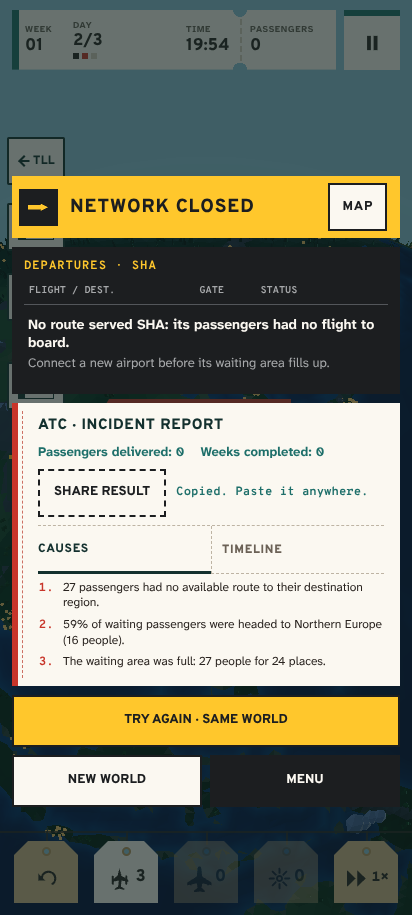
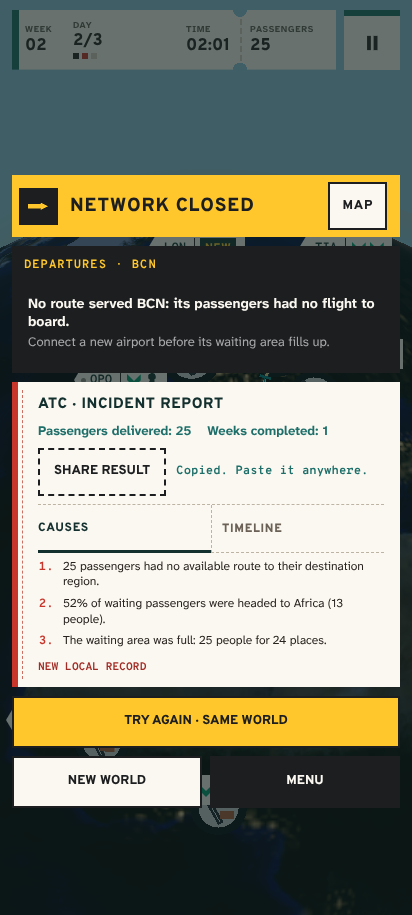
N12aj: fixed-date seeds for daily-share and daily-continue (D-214)
Clock checks in test:e2e-seeds (both date-seeded suites declare a date; pinDate's
init script lands on the right Warsaw day across DST switches), D-214, TESTING
entries, backlog item and log line; daily-share shots refreshed for the fixed day.

Claude-Session: https://claude.ai/code/session_01Xqzfc4e5N2tWm4N2npoph3

diff --git a/scripts/e2e-seeds.ts b/scripts/e2e-seeds.ts
@@ -6,7 +6,9 @@ import { performance } from 'node:perf_hooks';
 //   [night-12aj] Suites seeded by the date list `dates` (Warsaw calendar keys); their seed is dailySeedForKey(date)
 //   and --find walks forward day by day.
 import { E2E_SEEDS } from '../e2e/seeds.mjs';
-import { dailySeedForKey } from '../src/core/daily.ts';
+import { runInNewContext } from 'node:vm';
+import { dailyInstant, pinDate } from '../e2e/browser.mjs';
+import { dailyKey, dailySeedForKey } from '../src/core/daily.ts';
 import { checkPlan, findSeed, IDLE_OFFSETS, playPlan, type E2ePlan } from './lib/e2e-plans.ts';
 
 const started = performance.now();
@@ -49,6 +51,30 @@ if (args.includes('--find')) {
     if (!miss) { passed++; console.log(`PASS ${label}`); continue; }
     failed++;
     console.error(`FAIL ${label}: ${miss.result.why} (idle ${miss.idle}; ${miss.result.trace.join(' | ') || 'no board'}) — npm run e2e:seeds -- ${name}`);
+  }
+  // [night-12aj] D-214: the date-seeded suites declare their day, and the browser clock pin really moves the page's
+  // calendar there (the init script pinDate hands to Playwright, run in a bare context) while time keeps running.
+  const clock = (name: string, ok: boolean, why: string) => {
+    if (ok) { passed++; console.log(`PASS ${name}`); } else { failed++; console.error(`FAIL ${name}: ${why}`); }
+  };
+  for (const name of ['daily-share', 'daily-continue']) {
+    const dates = suites[name]?.dates ?? [];
+    clock(`${name}: fixed date`, dates.length > 0 && dates.every((date) => /^\d{4}-\d{2}-\d{2}$/.test(date)),
+      `no dates in e2e/seeds.mjs (${JSON.stringify(dates)})`);
+  }
+  for (const date of ['2026-11-04', '2027-03-28', '2027-10-31', '2026-12-31']) {
+    const page = { script: null as null | ((target: number) => void), arg: 0,
+      addInitScript(fn: (target: number) => void, arg: number) { this.script = fn; this.arg = arg; return Promise.resolve(); } };
+    await pinDate(page, dailyInstant(date));
+    const context: { Date: DateConstructor; globalThis?: unknown } = { Date };
+    context.globalThis = context;
+    runInNewContext(`(${page.script!.toString()})(${page.arg})`, context);
+    const Pinned = context.Date;
+    const first = Pinned.now();
+    const key = dailyKey(new Pinned());
+    const later = new Pinned(Pinned.now() + 1000).getTime() - first;
+    clock(`pinDate ${date}: page daily key`, key === date && Math.abs(first - dailyInstant(date).getTime()) < 5000 &&
+      new Pinned(0).getTime() === 0 && later >= 1000, `key ${key}, now ${new Date(first).toISOString()}`);
   }
   console.log(`SUMMARY test:e2e-seeds suites=${Object.keys(suites).length} cases=${passed + failed} offsets=${IDLE_OFFSETS.length} passed=${passed} failed=${failed} durationMs=${Math.round(performance.now() - started)}`);
   if (failed) process.exitCode = 1;

diff --git a/docs/TESTING.md b/docs/TESTING.md
@@ -117,7 +117,7 @@ Times are measured in the integration container (8 vCPU, SwiftShader); “ci” 
 | `npm run test:hud-targets` | ci | 40 s | Playwright HUD: 7 controls ≥ 48 dp ([N11w] pause + six dock tags; the G8 globe-view tag ≥ 48 dp, in line with the dock between hub and speed, also after rotation, tap → ToggleGlobeMode), safe-area clearance, no overlap/overflow, rotation, drag-to-route; 4 PNGs in `docs/shots/13/`. [task-35] Weekly upgrade board PL/EN × 4 sizes (+ "+2 slots" variant): labels ≥ 48 dp inside the viewport, no overlap or clipped text, model window size, 3 rendered models, stamp only on the hub label, sim numbers, tap → ChooseUpgrade, hub-pick mode, no-hub state; [task-39] Back tile in the pick sign ≥ 48 dp, i18n text, tap → CancelUpgradePick; 16 PNGs in `docs/shots/35/`. [task-37] Text: menu, upgrade labels and game over, PL/EN at 360×800, 412×915, 673×841, 904×1000, 915×412, 800×360: no word breaks between two letters without a hyphen/soft hyphen (per-character range line boxes), upgrade titles fit, departures-board headers ≥ 8 px apart, " · " symmetric with a real advance; 8 PNGs in `docs/shots/37/` (plus 8 committed `before-*` from dev); `--text-only` runs just this part | `… passed=N failed=0 shots=28` |
 | `npm run test:e2e:tutorial` | ci | 35 s | Onboarding: three training actions in the game's own marks (airport discs, hub ring, code plates, crescent glyph tag, D-129), "STEP n / 3", the dawn sentence on the last step, planet inside 412 px, replay/skip/persistence, the 8-row glyph legend in settings → help; 8 PNGs in `docs/shots/23/` | `… passed=28 failed=0 screenshots=8` |
 | `npm run test:e2e:smoke` | ci | 15–40 s | Real gameplay journey, 9 dependent steps (menu → seeded start → route drag → aircraft drag → week → upgrade → save/continue hash → overload → menu). Each step prints PASS/FAIL/SKIP; failure screenshot in `.e2e/` | `SUMMARY test:e2e:smoke … mode=game steps=9 passed=9 failed=0 skipped=0` |
-| `npm run test:e2e:daily-continue` | ci | 10–30 s | [night-07c] Real-UI journey for Continue of a saved daily (N7a, D-72), 7 dependent steps: official daily from the menu → route/aircraft drag → save/menu/continue keeps seed, hash and the open official attempt → game over records the official score, menu shows PLANOWO → second daily is practice and stays practice after continue → its game over leaves the official result unchanged. Checks `aw-daily-active-v1` / `aw-daily-scores-v1`; fails without the N7a resume | `SUMMARY test:e2e:daily-continue seed=0xA1A1 steps=7 passed=7 failed=0 skipped=0` |
+| `npm run test:e2e:daily-continue` | ci | 10–30 s | [night-07c] Real-UI journey for Continue of a saved daily (N7a, D-72), 7 dependent steps: official daily from the menu → route/aircraft drag → save/menu/continue keeps seed, hash and the open official attempt → game over records the official score, menu shows PLANOWO → second daily is practice and stays practice after continue → its game over leaves the official result unchanged. Checks `aw-daily-active-v1` / `aw-daily-scores-v1`; fails without the N7a resume. [night-12aj] D-214: the clock is pinned to `E2E_SEEDS['daily-continue'].dates[0]` and the official run must be of that day | `SUMMARY test:e2e:daily-continue seed=0xA1A1 date=2026-11-04 steps=7 passed=7 failed=0 skipped=0` |
 | `npm run test:e2e:upgrade-picks` | ci | 15–60 s | [night-07q] Real-UI journey for the targeted weekly upgrades at 412×915 and 915×412 (two fresh runs each): "+2 slots" opens the airport pick, Back returns to the three crates with nothing taken, a real tap on the globe completes it; then the hub expansion is completed by a tap on a hub. The DEV gesture `window.aw.gesture('pick')` gives a visible target clear of the sign; `window.aw.state().upgrades` lists taken upgrades with the picked airport. Fails when the globe tap no longer completes the pick | `SUMMARY test:e2e:upgrade-picks seed=0xA3AA steps=10 passed=10 failed=0 skipped=0` |
 | `npm run test:e2e:screens-fit` | ci | ~45 s | [night-07s] Settings, puzzle board and pause sheet × PL/EN × 360×640, 412×915, 915×412 (18 checks): every visible button/select is a ≥ 48 px target inside the viewport, no button text is clipped, each select is wide enough for its longest option (canvas-measured), no horizontal page scroll. Fails on the pre-N7s settings grid at 360 dp | `SUMMARY test:e2e:screens-fit seed=0xA1A1 checks=18 passed=18 failed=0` |
 | `npm run test:e2e:screens-fit-320` | ci | ~30 s | [night-07v] The screens-fit audit at 320×568 and 568×320 × PL/EN (12 checks) on settings, puzzle board and pause sheet, with each select keeping ≥ 8 px to spare beside its longest option. Fails 10/12 on the pre-N7v settings grid (132 px selects at 320 dp). [ext-02] The puzzle board shows one departure per `NN.json` (40), is scrolled to the last one, and a pack header never overflows; [ext-05] no puzzle title on the board splits a word across lines (each word's text `Range` stays on one line box) — 10/12 on the old titles (12 PL, 10 EN titles split, e.g. 29 „ATLANTYK-U”) | `SUMMARY test:e2e:screens-fit-320 seed=0xA1A1 checks=12 passed=12 failed=0` |
@@ -131,7 +131,7 @@ Times are measured in the integration container (8 vCPU, SwiftShader); “ci” 
 | `npm run test:e2e:new-airport` | ci | ~10 s | [night-10a] EN and PL 412×915, seed 4242: the opening airports carry no mark, the airport opened mid-run gets the ink NEW/NOWE stub (text + aria-label), the mark is gone 12 game hours later; shots `docs/shots/n10a/` | `SUMMARY test:e2e:new-airport seed=4242 steps=4 passed=4 failed=0` |
 | `npm run test:e2e:save-notice` | ci | ~15 s | [night-10c] 412×915: a damaged save (PL) and a save from a newer version (EN) written into IndexedDB show their menu notice after a reload, no Continue row is offered, and the notice is gone after a new flight; [night-11j] the frozen rules-v4 save (PL) says "older rules version", not "damaged" (4/6 on the old code); shots `docs/shots/n10c/` | `SUMMARY test:e2e:save-notice seed=0xA1A1 steps=6 passed=6 failed=0` |
 | `npm run test:e2e:daily-row` | ci | ~15 s | [night-10d] PL/EN 412×915 with seeded local stores: the endless record 2 500 reads as a plural (no `{count|…}` token), the daily row shows today's score + streak, or the streak to keep when today is not played; shots `docs/shots/n10d/` | `SUMMARY test:e2e:daily-row seed=0xA1A1 steps=4 passed=4 failed=0` |
-| `npm run test:e2e:daily-share` | ci | ~20 s | [night-10e] Real daily at 412×915: "Share result" copies the text (EN; ticket of served regions, "STREAK 2 DAYS" after a seeded yesterday), shows it to select when share and clipboard are missing (PL); "Same world" starts a practice of the same seed, "New world" starts Endless; shots `docs/shots/n10e/` | `SUMMARY test:e2e:daily-share seed=0xA1A1 steps=4 passed=4 failed=0` |
+| `npm run test:e2e:daily-share` | ci | ~20 s | [night-10e] Real daily at 412×915: "Share result" copies the text (EN; ticket of served regions, "STREAK 2 DAYS" after a seeded yesterday), shows it to select when share and clipboard are missing (PL); "Same world" starts a practice of the same seed, "New world" starts Endless; shots `docs/shots/n10e/`. [night-12aj] D-214: the clock is pinned to `E2E_SEEDS['daily-share'].dates[0]` and the seeded yesterday is the day before | `SUMMARY test:e2e:daily-share seed=0xA1A1 date=2026-11-04 steps=4 passed=4 failed=0` |
 | `npm run test:e2e:curfew-barrier` | ci | ~10 s | [night-10g] Bot plays Endless seed 0xA1A1 to the week-3 board, then one decision per game hour until the curfew closes airports (week 4): the renderer draws exactly as many barrier rings as the sim closes (`aw.state().curfewDrawn`), and none after the night (EN 412×915, PL 915×412); [N10h] every closed airport's luggage tag has the barrier stub and a label naming the curfew, its edge chip the striped bar, at least one sign on screen, all gone after the night; fails 0/2 without the session sync; shots `docs/shots/n10g/` | `SUMMARY test:e2e:curfew-barrier seed=0xA1A1 steps=2 passed=2 failed=0` |
 | `npm run test:e2e:transfer-glyphs` | ci | ~15 s | [night-10i] Bot plays Endless seed 0xA1A1 to week 2, then the game steps one minute at a time until a visible luggage tag shows hollow transfer glyphs: every such tag has the `--connecting` class and the label "Making a connection" / "W trakcie przesiadki", and the hollow glyphs fill in within 50 minutes (EN 412×915, PL 915×412); shots `docs/shots/n10i/` | `SUMMARY test:e2e:transfer-glyphs seed=0xA1A1 steps=2 passed=2 failed=0` |
 | `npm run test:e2e:pause-summary` | ci | ~15 s | [night-10j] Bot plays Endless seed 0xA1A1 to the week-1 board, one pick puts it into week 2 ([night-11j]: rules v5 end the run before the week-2 board, 0/4 with `autoplay(2)`), Escape opens the pause sheet: three summary rows with real numbers in the player's language, sheet inside the viewport and clear of the boarding pass, text not clipped, three ≥ 48 px buttons (EN 412×915, PL 915×412, PL 360×640, EN 320×568; failed 2/4 before Save and Menu shared a row); shots `docs/shots/n10j/` | `SUMMARY test:e2e:pause-summary seed=0xA1A1 steps=4 passed=4 failed=0` |
@@ -167,7 +167,7 @@ Times are measured in the integration container (8 vCPU, SwiftShader); “ci” 
 | `npm run ui:matrix` | ci | 30–90 s | Real menu/game/upgrade/gameover × PL/EN × 412×915, 915×412, 673×841, 904×1000, [N12u] unfolded foldable 904×1088@2 and 1088×904@2 → `docs/shots/matrix/` (48 shots); runs on the ordinary seed 0xA1A1; autoplay reaches the week-1 board on it (task 31) | `… weekSeed=41377 mode=game captured=32 expected=32 failed=0` |
 | `npm run test:e2e:fixture` | — | 6 s | Harness self-test against `e2e/fixtures/airway.html` (smoke + matrix); output to ignored `docs/shots/matrix-fixture/`. Does **not** test the game | `… mode=fixture … failed=0` (both) |
 | `npm run test:balance` | fast | ~4 s | Real engine: the same 50 seeded bot games as `balance:report`, deterministic replay, 0 invalid commands, 10–18 min median (D-79), ≥ 60 % reach the 1st weekly upgrade and ≥ 30 % the 2nd (task 31), hub-overflow warning; [night-12f] D-95: 0 runs lost in week 1 at an airport that opened beyond turboprop reach (rules v4: 5 of 50); [night-12ab] R8d D-196: the report's "Spread and mechanic use" section is consistent (p10 ≤ p25 ≤ median ≤ p75 ≤ p90, median = gate median, loss weeks + still flying = runs, hub + spoke + unserved = losses, picks = accepted `ChooseUpgrade`, picked ≤ offered, delivered = score, transfer/curfew/slot counts in range; the real adapter must report `RunMechanics`) — shape only, no gate on the values | `SUMMARY test:balance … mode=game seeds=50 median_min=17.25 upgrade1=1.00 upgrade2=0.66 week1_unreachable=0 spread=ok passed=1 failed=0` |
-| `npm run test:e2e-seeds` | fast | ~24 s | [night-12aa] D-189: the bot plans of the browser suites that need a given weekly board (`e2e/seeds.mjs`: board-short, run-timeline, edge-chip-airports, edge-chip-tags, upgrade-picks; [night-12ac] D-200: also airport-plates, continue-framing, curfew-barrier, edge-chip-fill, edge-dock, first-time-cards, focus-pause, gameover-map, gameover-short, gameover-tip, gameover-unserved (+ its served seed), logbook, new-airport, pause-summary, pick-sign, pseudo-locale, transfer-glyphs, undo-after-upgrade — play-outs, served/unserved jams, hourly bot play, curfew and transfer waits, first-time triggers; [night-12ag] D-208: smoke and leaderboard — the route drag and the dock-tag drag as AddRoute + AssignPlane, checked for every start-airport pair within turboprop range, since the on-screen pair depends on the camera) replayed headless on the current rules (`scripts/lib/e2e-plans.ts`, the same EndlessRun, bot, card click and forced overload as `window.aw`), each on 7 idle offsets (0–60 ticks between calls, as the browser clock runs on). Fails 5/7 on the pre-N12aa seeds (passes 2/7). After a rule change: `npm run e2e:seeds -- <suite>` prints the next seed that holds | `SUMMARY test:e2e-seeds suites=26 cases=32 offsets=7 passed=32 failed=0` (daily-share and daily-continue have no fixed seed: the date seeds them) |
+| `npm run test:e2e-seeds` | fast | ~22 s | [night-12aa] D-189: the bot plans of the browser suites that need a given weekly board (`e2e/seeds.mjs`: board-short, run-timeline, edge-chip-airports, edge-chip-tags, upgrade-picks; [night-12ac] D-200: also airport-plates, continue-framing, curfew-barrier, edge-chip-fill, edge-dock, first-time-cards, focus-pause, gameover-map, gameover-short, gameover-tip, gameover-unserved (+ its served seed), logbook, new-airport, pause-summary, pick-sign, pseudo-locale, transfer-glyphs, undo-after-upgrade — play-outs, served/unserved jams, hourly bot play, curfew and transfer waits, first-time triggers; [night-12ag] D-208: smoke and leaderboard — the route drag and the dock-tag drag as AddRoute + AssignPlane, checked for every start-airport pair within turboprop range, since the on-screen pair depends on the camera; [night-12aj] D-214: daily-share and daily-continue — the browser clock is pinned to `dates[0]` (2026-11-04, `e2e/browser.mjs` `pinDate`) and their plans replay in daily mode on `dailySeedForKey(date)`, plus 6 clock checks: both suites declare a date, and `pinDate`'s init script moves `new Date()`/`Date.now()` to that Warsaw day while time runs on, for 4 dates incl. both DST switches; the clock checks fail on the pre-N12aj seeds/browser helpers) replayed headless on the current rules (`scripts/lib/e2e-plans.ts`, the same EndlessRun, bot, card click and forced overload as `window.aw`), each on 7 idle offsets (0–60 ticks between calls, as the browser clock runs on). Fails 5/7 on the pre-N12aa seeds (passes 2/7). After a rule change: `npm run e2e:seeds -- <suite>` prints the next seed that holds | `SUMMARY test:e2e-seeds suites=28 cases=41 offsets=7 passed=41 failed=0` |
 | `npm run test:doc-ids` | fast | <1 s | [night-12ae] D-205: `docs/DECISIONS.md` — every `## D-NN` heading once and in ascending order; `docs/OWNER-QUESTIONS.md` — every `Q-NN` table row once (✅ markers allowed); self-check on synthetic text. Fails when two agents take the same number. | `SUMMARY test:doc-ids seed=0 cases=8 passed=8 failed=0 decisions=… maxD=… questions=… maxQ=…` |
 | `npm run test:safe-area` | fast | <1 s | [night-11y] R5j, D-206: every `env(safe-area-inset-*)` in `src/**/*.css` is one of the four `--aw-safe-*` token definitions in `src/ui/base.css` (each defined once); any raw use fails, because no browser suite can see it. Fails on the pre-R5j CSS (56 raw uses) | `SUMMARY test:safe-area files=14 raw=0 tokenUses=76 passed=6 failed=0` |
 | `npm run test:bot-policy` | fast | ~3 s | [night-12z] R8e: with an empty reserve and no route end in reach it frees an idle plane from the quietest two-plane route (type that reaches), every route keeps one, busy planes stay, a spare plane is used instead, an unserved jam is connected first; [night-07w] Balance bot policy: with no spare aircraft it extends the nearest served route to an unserved city (range- and length-limited), a spare aircraft still opens a new route, and on the real Sim seed 0xA1A1 reaches the week-3 board both after "+2 slots" and after a turboprop in week 1, with 0 refused commands ([night-12f] rules v5: seed 0xA1A5, "+2 slots" reaches the week-2 board and at least as many boards as a turboprop). Fails 3/6 on the pre-N7w bot. [night-12a] Reach: a board answered with a widebody when the fleet has none or an airport lies beyond turboprop range of all others, two unserved airports beyond the network paired by a new route, and over 20 real seeds at most 4 game overs at an airport no route served (old bot: 14 of 18; [night-12f] at most 6 with 6 airports a week, D-106, measured 6 of 19). Fails 4/10 on the pre-N12a bot | `SUMMARY test:bot-policy seed=0xA1A1 passed=13 failed=0` |

diff --git a/docs/NIGHT-BACKLOG.md b/docs/NIGHT-BACKLOG.md
@@ -769,6 +769,11 @@ before/after `npm run shots -- globe` PNGs and look at them.
       forms, "Nova York", pt-BR over pt-PT spellings, "Naher Osten"); ASSETS entry; `test:city-data` +4 checks. PL/EN
       names and `namePl`/`nameEn` untouched; the game does not read the file until a language ships. Q-80 → A (card
       unchanged, playtest checks the departure limit), Q-79 → A (titles stay), PL store text "terminal" → "hub".
+- [x] N12aj **Fixed-date seeds for daily-share and daily-continue (D-214)** — the last two browser suites without a
+      replayed seed: `pinDate` starts the page calendar on `E2E_SEEDS[suite].dates[0]` (2026-11-04, Warsaw noon, time
+      keeps running), daily plans replay headless in daily mode on `dailySeedForKey(date)`, `e2e:seeds -- <suite>` finds
+      the next date that holds; `test:e2e-seeds` 32 → 41 cases (3 plans + 6 clock checks; the clock checks fail on the
+      old seeds and browser helpers).
 - [x] G1 **Production globe assets** — reproducible bake into `public/data/globe/` (day 4096/2048, night 2048/1024,
       elevation 2048, clouds 2048, ~1.9 MB) with a SHA-256 manifest; NASA/NOAA entries in `docs/ASSETS.md`; credit
       line (PL/EN i18n) on the About page; bundle `total` budget → 4 300 kB (D-171); new fast test `test:globe-assets`.
@@ -1414,3 +1419,4 @@ Evidence: `docs/RESEARCH.md` "R6 — …".
 - 2026-11-04 · N12ah translator export/import (R7i, D-211, D-212) · night/12ah-i18n-export · test:i18n-exchange 12/12 (new module; absent before), export de/fr 449 rows (de one|other, fr one|other|many), JSON + CSV round-trip, import rejects bad params/plurals/budget/stale EN; test:i18n 1/1, test:doc-ids 8/8 (173 decisions, max D-212), test:fast 81/81 (236.9 s), build ok on origin/dev 87a146c; no browser suite (no UI change)
 - 2026-11-04 · N11ac length budgets + harsh pseudo-locale at 320 px (R7h, D-213) · night/11ac-i18n-length-budgets · origin/dev 794e9a7 merged first (#197 i18n export reads the budgets): test:i18n budgets=63 passed (228 failures with the old pseudo-locale; crashes without limits.ts), test:e2e:pseudo-320 16/16 in 35 s (6/16 on the old code), test:e2e:pseudo-locale 27/27 (26/27 before the NEW-stub min-width), test:i18n-exchange 12/12 (11/12 before its stand-in fix), test:fast 81/81 (356.7 s), build ok, test:overlay-layout 36/36 after the stub change; shots .e2e/pseudo-320/ (16, inspected, not committed)
 - 2026-11-04 · N12ai wave-1 city/region names from Wikidata (R7j, D-217) + owner Q-80 → A (D-215), Q-79 → A + PL store "hub" (D-216) · night/12ai-city-names · 165/165 cities resolved (enwiki article, all within 40 km), 173 items × de/fr/es/pt-br/pt/mul labels, 165 cities + 8 regions × 4 languages, 19 reviewed overrides, offline rebuild identical; test:city-data 9/9 (4 new; the module and data file are absent on the old code), test:doc-ids 8/8 (177 decisions, max D-217), test:fast 81/81, build ok after merging origin/dev 9dbfc27; no browser suite (no UI change)
+- 2026-11-04 · N12aj fixed-date seeds for daily-share and daily-continue (D-214) · night/12aj-daily-date-seed · origin/dev 37a8f1c merged first: test:e2e-seeds 41/41 (was 32; +3 daily plans, +6 clock checks — 36/38 with the old e2e/seeds.mjs, the old e2e/browser.mjs has no pinDate), test:e2e:daily-share 4/4 (date=2026-11-04; shots docs/shots/n10e/gameover-share-* refreshed for the fixed day, inspected), test:e2e:daily-continue 7/7, test:doc-ids 8/8 (178 decisions, max D-217), test:fast 81/81 (193.2 s), build ok

diff --git a/docs/DECISIONS.md b/docs/DECISIONS.md
@@ -1707,6 +1707,19 @@ the puzzle sign, game-over buttons and crate values; the game-over title wraps s
 puzzle Back tile no longer shrinks; the airport NEW stub's estimated width is a floor (min-width), not a cap. Real PL/EN text renders as before (row heights unchanged at 320/360/568).
 **Status: in force.**
 
+## D-214 — Daily e2e suites run on a fixed date, replayed headless by test:e2e-seeds (2026-11-04, Claude, night N12aj)
+The two browser suites seeded by the date (`test:e2e:daily-share`, `test:e2e:daily-continue`) played whatever daily
+world the real calendar gave, so a rule change or simply the next day could break them and no headless check saw it
+(D-189/D-200/D-208 cover only the fixed-seed suites). Their day is now `dates: ['2026-11-04']` in `e2e/seeds.mjs`: the
+page clock starts at Warsaw noon of that day (`e2e/browser.mjs` `pinDate`, an init script that shifts `Date`/`Date.now`
+by a fixed offset and lets time run; Playwright's `clock.setFixedTime` froze `Date` and stalled the game screens under
+SwiftShader), daily-share seeds the day before as "yesterday" for the streak, and daily-continue asserts the official
+run is of that day. `test:e2e-seeds` replays their plans in daily mode (`mode: 'daily'`, `createGame(seed, 'daily')`)
+on `dailySeedForKey(date)` (route drag; route + aircraft drags; practice idle) and adds clock checks (both suites
+declare a date; the init script lands on the right Warsaw day for four dates across both DST switches).
+`npm run e2e:seeds -- daily-share` walks forward day by day to the next date that holds after a rule change.
+**Status: in force.**
+
 ## D-215 — "+2 slots" card stays as it is; the closed playtest checks the departure limit (2026-11-04, owner, Q-80 → A)
 Owner's answer to Q-80 (N12af, D-207): no rule change for the "+2 slots" card (D-150 offer rule stays). The closed
 playtest (R3 playtest plan) records whether players hit the hourly departure limit (held departures, slot waits) before
